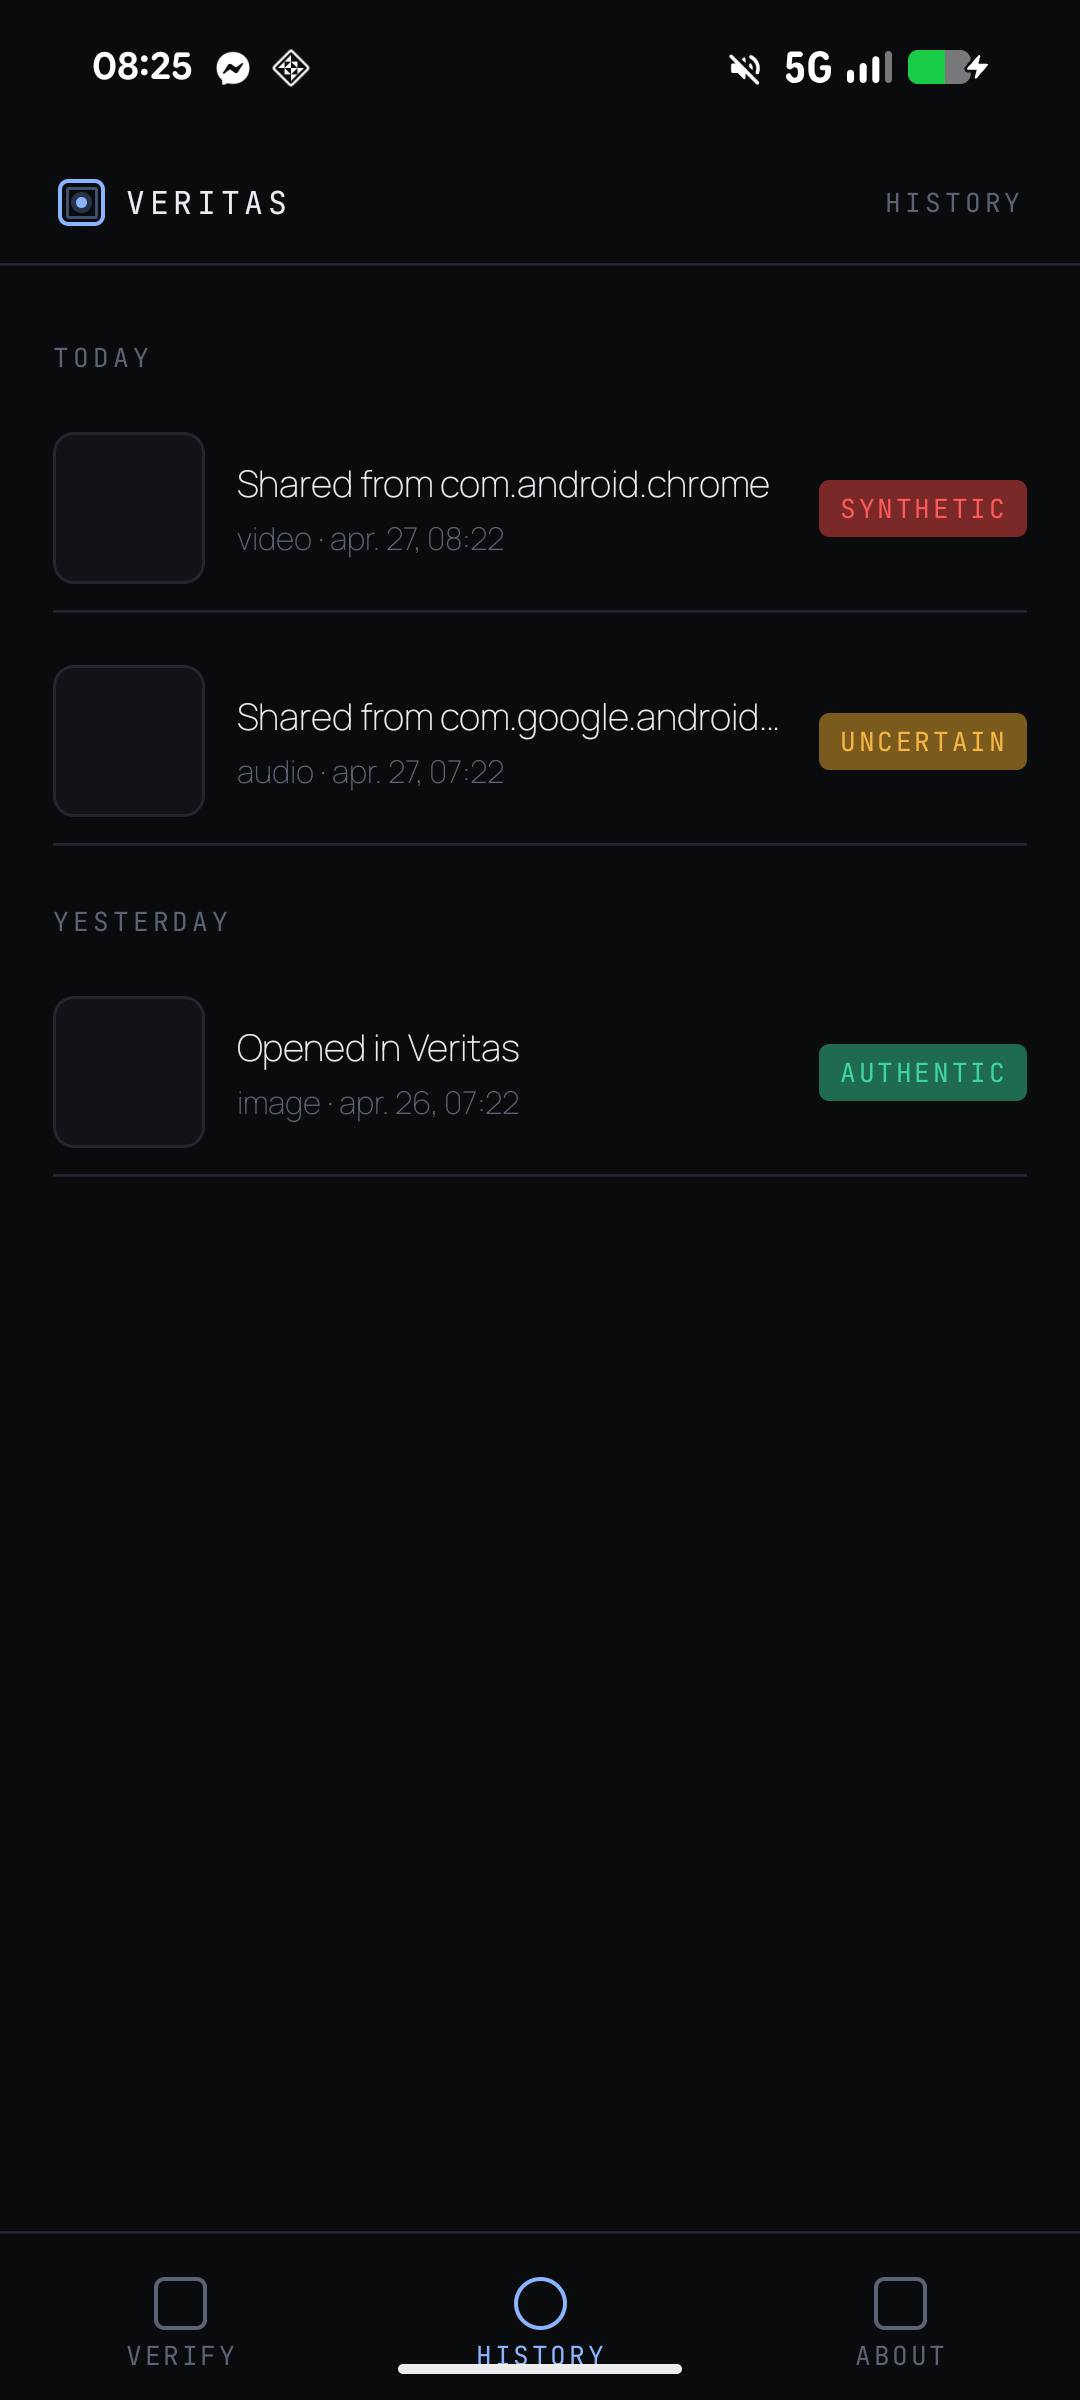
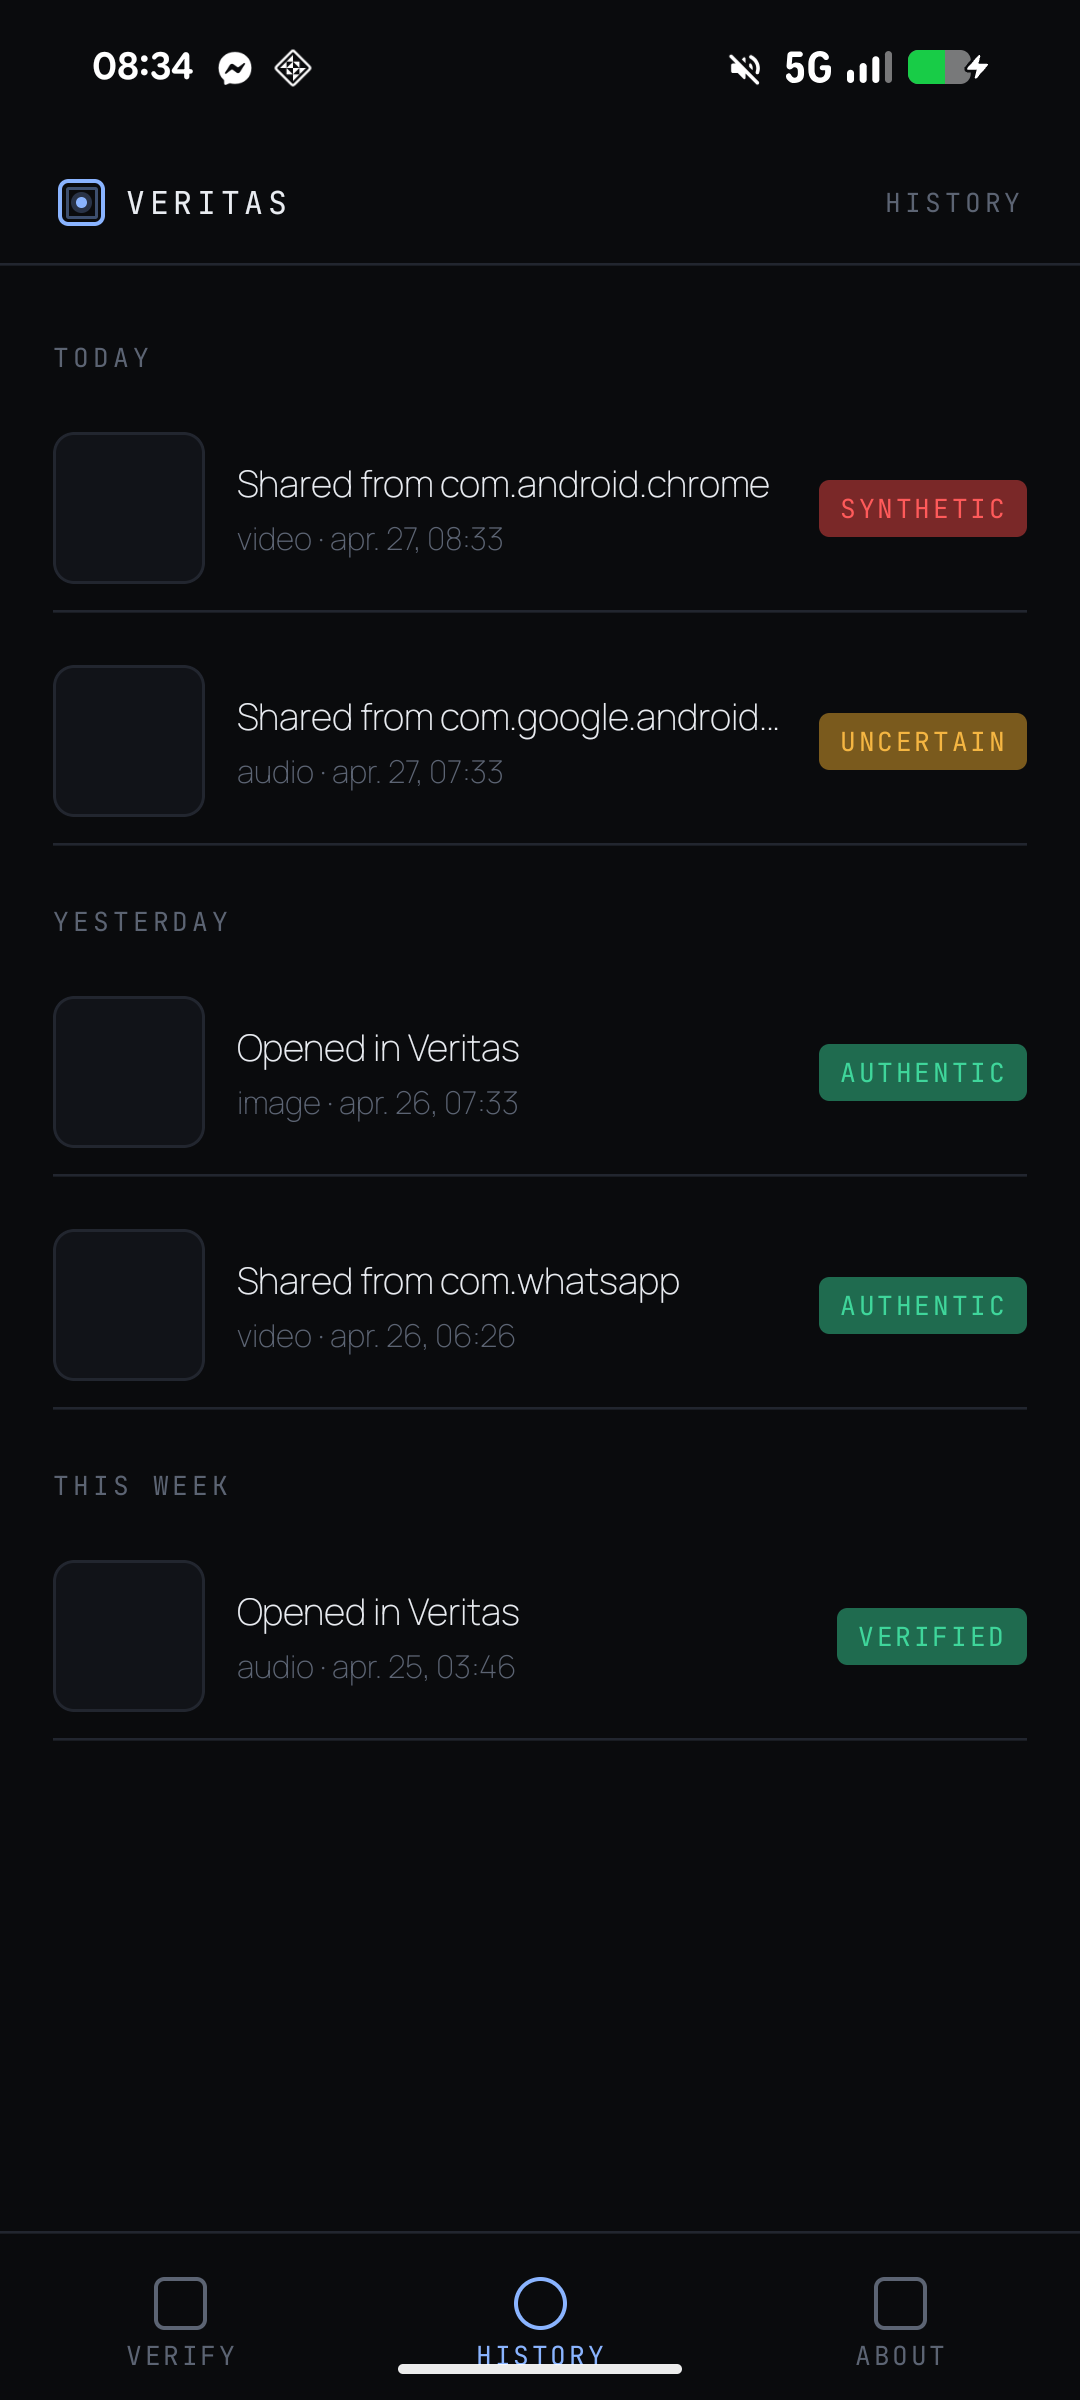
docs: complete phase 11 visual evidence

diff --git a/app/src/debug/kotlin/com/veritas/app/Phase10ForensicDemoActivity.kt b/app/src/debug/kotlin/com/veritas/app/Phase10ForensicDemoActivity.kt
@@ -63,6 +63,7 @@ class Phase10ForensicDemoActivity : ComponentActivity() {
                     onReasonSelected = { selectedReason = it },
                     onReasonDismiss = { selectedReason = null },
                     onFindOriginalDismiss = {},
+                    showTelemetryPrompt = mode == MODE_TELEMETRY,
                 )
             }
         }
@@ -152,5 +153,6 @@ class Phase10ForensicDemoActivity : ComponentActivity() {
         const val MODE_AUDIO = "audio"
         const val MODE_VIDEO = "video"
         const val MODE_SHEET = "sheet"
+        const val MODE_TELEMETRY = "telemetry"
     }
 }

diff --git a/docs/phase_reports/phase_11.md b/docs/phase_reports/phase_11.md
@@ -104,7 +104,7 @@ Screenshots captured from the connected Pixel 8 with `adb shell screencap -p`:
 
 ![History empty](phase_11_screenshots/phase11_history_empty.png)
 
-![History populated](phase_11_screenshots/phase11_history_populated.png)
+![History populated, five representative rows](phase_11_screenshots/phase11_history_populated.png)
 
 ![Settings home](phase_11_screenshots/phase11_settings_home.png)
 
@@ -112,12 +112,16 @@ Screenshots captured from the connected Pixel 8 with `adb shell screencap -p`:
 
 ![Diagnostic export preview](phase_11_screenshots/phase11_diagnostic_export_preview.png)
 
+![Telemetry opt-in modal](phase_11_screenshots/phase11_telemetry_opt_in.png)
+
+![About screen](phase_11_screenshots/phase11_about_screen.png)
+
 Visual issues found and fixed during the Pixel 8 pass:
 - The debug app inherited a platform action bar, which pushed/overlapped Compose content. Fixed by applying `Theme.Veritas` with `NoActionBar`.
 - Removing the platform action bar exposed missing status-bar insets on the Compose top bars. Fixed with `statusBarsPadding()` on Home, History, and Settings top bars.
 - Long source package labels wrapped awkwardly in populated history rows. Fixed with single-line ellipsis on the source and metadata text.
 
-The populated history screenshot uses representative seeded local history rows to exercise image, audio, and video row layout without storing original media.
+The populated history screenshot uses five representative seeded local history rows to exercise image, audio, and video row layout without storing original media. The telemetry screenshot uses the debug forensic demo host to render the same production telemetry sheet component on Pixel 8.
 
 ## Connected Pixel 8 Test
 Command:

diff --git a/docs/SESSION_NOTES.md b/docs/SESSION_NOTES.md
@@ -9,7 +9,7 @@
 ## Current Status
 - Phase 11 history and settings implementation is in place.
 - Completion/status report: `docs/phase_reports/phase_11.md`.
-- Pixel 8 visual review is complete; screenshots are embedded in `docs/phase_reports/phase_11.md`.
+- Pixel 8 visual review is complete; screenshots for history, settings, diagnostics, telemetry, and about are embedded in `docs/phase_reports/phase_11.md`.
 
 ## Phase 11 Outcome So Far
 - Added Room history persistence in `data-detection` with latest-100 retention.
